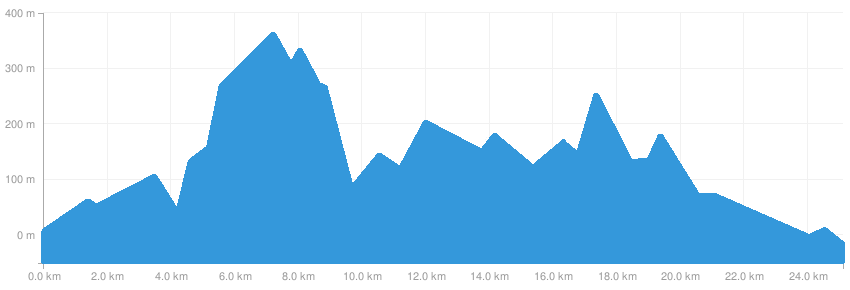
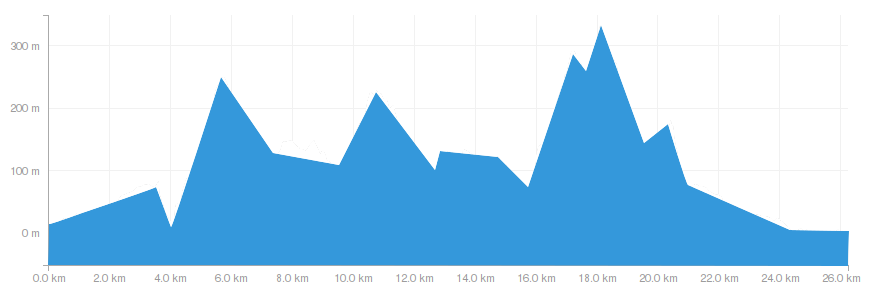
parcours 26

diff --git a/parcours.html b/parcours.html
@@ -92,9 +92,13 @@
                 </div>
                 <br /><br />
                 <h2>Le 26km</h2>
-                Le grand parcours de l'édition 2017 n'est pas encore complètement déterminé, nous l'annonceront au plus tôt sur cette page. La distance et le dénivelé se rapprochera quoiqu'il arrive fortement du grand parcours de 2016, à savoir <span class="highlight">26km et 1100m de d+</span>.
-                <!--<h5>Petit parcours : 16km / 750m d+</h5>-->
-                <!--<h5>Grand parcours : 26km / 1100m d+</h5>-->
+                <a class="fancybox" href="images/trail_26_simplified.png" title="Parcours 26km / 1100m D+">
+                    <img src="images/trail_26_simplified_small.png" alt="Dénivellé 26km" />
+                </a>
+                <br />
+                <span class="highlight">26km / 1100m* de D+</span> <br />
+                <div class="open-runner-map">
+                    <script type="text/javascript" src="http://www.openrunner.com/orservice/inorser-script.php?key=mykey&amp;ser=S08&amp;id=7918632&amp;w=600&amp;h=600&amp;k=2&amp;m=0&amp;ts=1505571898"></script>
 
                 <div class="bottom-info">
                   * Dénivelé calculé au GPS.
